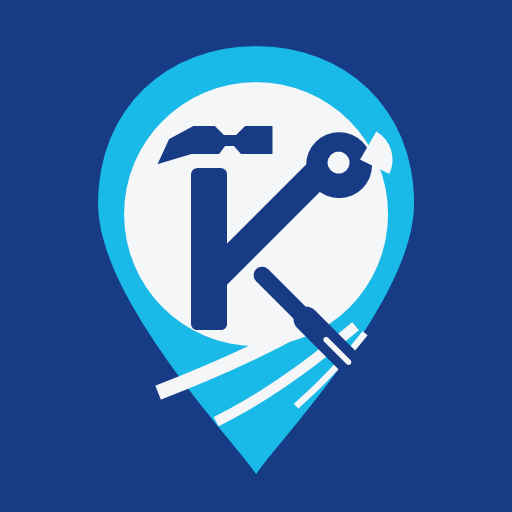
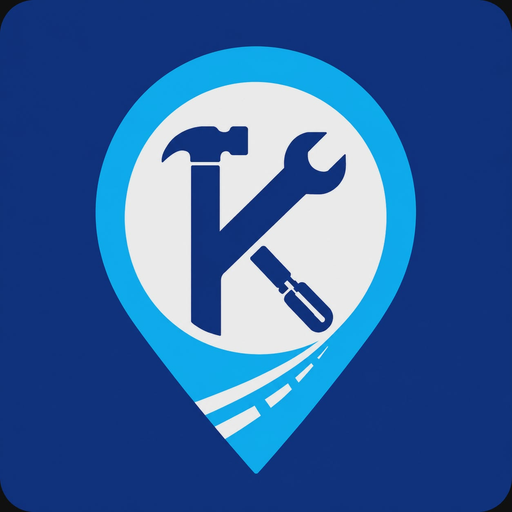
Refactor code structure for improved readability and maintainability

diff --git a/index.html b/index.html
@@ -26,11 +26,11 @@
   <meta name="twitter:title" content="KAILA | Find Trusted Local Services in Gingoog City">
   <meta name="twitter:description" content="Find trusted local help faster with request posting, provider offers, chat, and job tracking.">
   <meta name="twitter:image" content="https://kaila-app.com/assets/kaila-preview.png?v=20260615-consumer-scenes">
-  <link rel="manifest" href="manifest.webmanifest?v=20260622-app-icon">
-  <link rel="icon" href="assets/favicon.ico?v=20260622-app-icon" sizes="any">
-  <link rel="icon" type="image/png" sizes="32x32" href="assets/favicon-32x32.png?v=20260622-app-icon">
-  <link rel="icon" type="image/png" sizes="16x16" href="assets/favicon-16x16.png?v=20260622-app-icon">
-  <link rel="apple-touch-icon" href="assets/apple-touch-icon.png?v=20260622-app-icon">
+  <link rel="manifest" href="manifest.webmanifest?v=20260622-icon-jpg">
+  <link rel="icon" href="assets/favicon.ico?v=20260622-icon-jpg" sizes="any">
+  <link rel="icon" type="image/png" sizes="32x32" href="assets/favicon-32x32.png?v=20260622-icon-jpg">
+  <link rel="icon" type="image/png" sizes="16x16" href="assets/favicon-16x16.png?v=20260622-icon-jpg">
+  <link rel="apple-touch-icon" href="assets/apple-touch-icon.png?v=20260622-icon-jpg">
   <link rel="preconnect" href="https://cdn.jsdelivr.net" crossorigin>
   <link rel="preconnect" href="https://cdnjs.cloudflare.com" crossorigin>
   <link rel="preconnect" href="https://tile.openstreetmap.org" crossorigin>
@@ -48,7 +48,7 @@
         "@id": "https://kaila-app.com/#organization",
         "name": "KAILA",
         "url": "https://kaila-app.com/",
-        "logo": "https://kaila-app.com/assets/android-chrome-512x512.png?v=20260622-app-icon",
+        "logo": "https://kaila-app.com/assets/android-chrome-512x512.png?v=20260622-icon-jpg",
         "areaServed": {
           "@type": "City",
           "name": "Gingoog City"
@@ -95,7 +95,7 @@
   <nav class="navbar bg-white border-bottom sticky-top py-2">
     <div class="container-fluid px-3">
       <a class="navbar-brand d-flex align-items-center gap-2 fw-black m-0" href="#" data-route="landing">
-        <img class="brand-icon" src="assets/android-chrome-192x192.png?v=20260622-app-icon" alt="">
+        <img class="brand-icon" src="assets/android-chrome-192x192.png?v=20260622-icon-jpg" alt="">
         <span>KAILA</span>
       </a>
       <div class="d-flex align-items-center gap-2">
@@ -135,7 +135,7 @@
           <div class="hero-preview" aria-label="KAILA request preview">
             <div class="preview-phone">
               <div class="preview-topbar">
-                <img class="preview-icon" src="assets/android-chrome-192x192.png?v=20260622-app-icon" alt="">
+                <img class="preview-icon" src="assets/android-chrome-192x192.png?v=20260622-icon-jpg" alt="">
                 <strong>Nearby help</strong>
                 <em>12m</em>
               </div>
@@ -394,7 +394,7 @@
       <div class="container-fluid px-3 py-3">
         <div class="public-post-shell">
           <div class="public-post-head">
-            <img src="assets/android-chrome-192x192.png?v=20260622-app-icon" alt="">
+            <img src="assets/android-chrome-192x192.png?v=20260622-icon-jpg" alt="">
             <div>
               <strong>KAILA Service Feed</strong>
               <span>Shared public post</span>
@@ -410,7 +410,7 @@
       <div class="adminlte-app">
         <header class="app-header">
           <div class="app-title">
-            <img src="assets/android-chrome-192x192.png?v=20260622-app-icon" alt="" data-app-user-photo>
+            <img src="assets/android-chrome-192x192.png?v=20260622-icon-jpg" alt="" data-app-user-photo>
             <div>
               <strong data-dashboard-title>Dashboard</strong>
               <span data-current-user-summary>Signed in</span>
@@ -550,7 +550,7 @@
 
                 <form class="feed-composer" data-feed-form>
                   <div class="feed-composer-row">
-                    <img src="assets/android-chrome-192x192.png?v=20260622-app-icon" alt="" data-feed-composer-photo>
+                    <img src="assets/android-chrome-192x192.png?v=20260622-icon-jpg" alt="" data-feed-composer-photo>
                     <textarea class="form-control" name="body" rows="2" maxlength="2000" placeholder="Share a service tip, update, availability, or community note"></textarea>
                   </div>
                   <div class="upload-preview feed-upload-preview" data-feed-media-preview></div>

diff --git a/sw.js b/sw.js
@@ -1,4 +1,4 @@
-const CACHE_NAME = "kaila-pwa-v251-app-icon-jobs-post";
+const CACHE_NAME = "kaila-pwa-v252-icon-jpg";
 const IS_ANDROID_WEBVIEW = /\bwv\b/i.test(navigator.userAgent || "");
 const IS_NATIVE_WEBVIEW = IS_ANDROID_WEBVIEW
   && (self.location.protocol === "capacitor:"
@@ -19,6 +19,7 @@ const APP_SHELL = [
   "./assets/Butuan City PSGC.xlsx",
   "./assets/android-chrome-192x192.png",
   "./assets/android-chrome-512x512.png",
+  "./assets/icon.jpg",
   "./assets/apple-touch-icon.png",
   "./assets/favicon.ico",
   "./assets/favicon-16x16.png",
